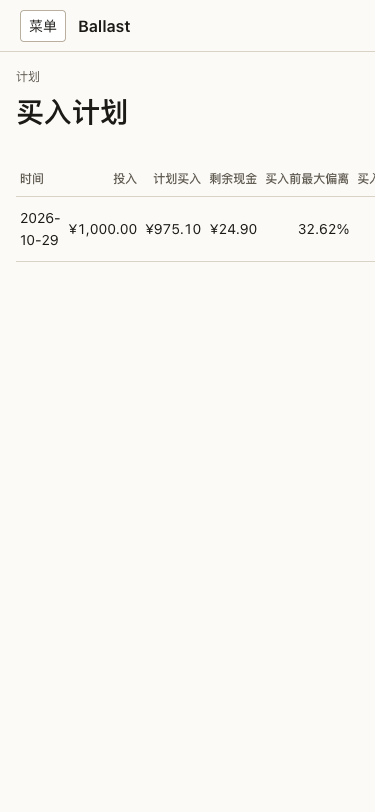
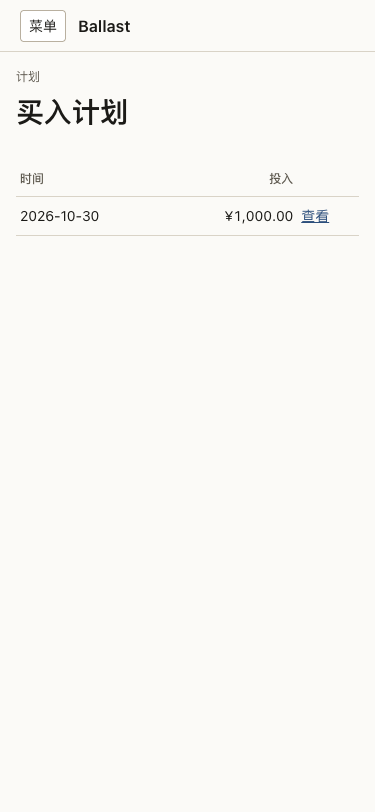
fix: 补齐算法微单位分配、移动端表格与计划过期提示
分类内预算改为先按市值取整、余数按 ticker 逐微补；窄屏隐藏次要列，截图脚本断言表格不超出视口；计划页显示过期横幅、可重新生成，并列出执行生成的交易；错误字段名映射为中文标签。

Changed region(s): [[0.0587, 0.2155, 1.0, 0.3079], [0.4107, 0.2155, 0.528, 0.2463], [0.2933, 0.2155, 0.352, 0.2463]]

diff --git a/web/src/pages/PlanDetail.jsx b/web/src/pages/PlanDetail.jsx
@@ -1,4 +1,4 @@
-import { useState } from 'react';
+import { useEffect, useState } from 'react';
 import { api } from '../api.js';
 import { Alert, Bar, Button, Dialog, Field, Input, Select, Spinner, Tag, useToast } from '../components.jsx';
 import { formatMoney, formatPercent, todayFrom } from '../format.js';
@@ -11,7 +11,15 @@ export default function PlanDetail({ id, state, plan, reloadPlan, refresh, navig
   const [abandonConfirm, setAbandonConfirm] = useState(false);
   const [busy, setBusy] = useState(false);
   const [error, setError] = useState('');
+  const [transactions, setTransactions] = useState(null);
+  const [regenBusy, setRegenBusy] = useState(false);
   const toast = useToast();
+  useEffect(() => {
+    if (plan?.status !== 'executed') return;
+    let alive = true;
+    api(`/api/transactions?planId=${id}&limit=200`).then((data) => { if (alive) setTransactions(data.items); }).catch(() => { if (alive) setTransactions([]); });
+    return () => { alive = false; };
+  }, [id, plan?.status]);
   if (!plan) return <Spinner />;
   const currency = state?.portfolio?.baseCurrency ?? 'CNY';
   const accountOptions = (state?.accounts ?? []).filter((a) => !a.archived).map((a) => ({ value: a.id, label: a.name }));
@@ -25,6 +33,13 @@ export default function PlanDetail({ id, state, plan, reloadPlan, refresh, navig
       toast('计划已执行，持仓已更新');
     } catch (err) { setError(err.message); }
     finally { setBusy(false); }
+  }
+  async function regenerate() {
+    setRegenBusy(true); setError('');
+    try {
+      const next = await api('/api/plans', { method: 'POST', body: { amountMicros: plan.amountMicros, minTradeMicros: plan.minTradeMicros } });
+      navigate(`/plans/${next.id}`);
+    } catch (err) { setError(err.message); } finally { setRegenBusy(false); }
   }
   async function abandon() {
     setBusy(true);
@@ -50,6 +65,9 @@ export default function PlanDetail({ id, state, plan, reloadPlan, refresh, navig
         <div><p className="caption">执行后最大偏离</p><p className="metric">{formatPercent(plan.maxDriftAfterBp)}</p></div>
       </section>
 
+      {plan.status === 'draft' && plan.stale && (
+        <Alert tone="danger">价格、持仓或目标在生成后发生了变化，这份计划已经过期。重新生成后再执行。<button className="link" onClick={regenerate} disabled={regenBusy}>{regenBusy ? '生成中…' : '重新生成'}</button></Alert>
+      )}
       {plan.warnings.map((w) => <Alert key={w.code}>{w.message}</Alert>)}
       {error && <Alert tone="danger">{error}</Alert>}
 
@@ -100,7 +118,23 @@ export default function PlanDetail({ id, state, plan, reloadPlan, refresh, navig
           <p className="caption">执行会生成 {plan.items.length} 条买入记录，不能撤销。</p>
         </section>
       )}
-      {plan.status === 'executed' && <Alert tone="success">执行于 {plan.executedAt?.slice(0, 16).replace('T', ' ')}（UTC）{plan.accountId ? `，账户「${state.accounts.find((a) => a.id === plan.accountId)?.name ?? '已删除账户'}」` : ''}。交易记录可在持仓页查看。</Alert>}
+      {plan.status === 'executed' && (
+        <section className="section">
+          <h2 className="section__title">生成的交易</h2>
+          <p className="caption">执行于 {plan.executedAt?.slice(0, 16).replace('T', ' ')}（UTC）{plan.accountId ? `，账户「${state.accounts.find((a) => a.id === plan.accountId)?.name ?? '已删除账户'}」` : ''}。</p>
+          {transactions === null ? <Spinner /> : transactions.length === 0 ? <p className="muted">没有找到关联交易。</p> : (
+            <table className="table">
+              <caption className="sr-only">计划生成的交易</caption>
+              <thead><tr><th>代码</th><th>名称</th><th className="num">份额</th><th className="num">价格</th><th className="num">金额</th></tr></thead>
+              <tbody>
+                {transactions.map((t) => (
+                  <tr key={t.id}><td className="mono">{t.ticker}</td><td>{t.symbolName}</td><td className="num">{t.quantityMicros / 1e6}</td><td className="num">{formatMoney(t.priceMicros, currency)}</td><td className="num">{formatMoney(Math.round((t.quantityMicros * t.priceMicros) / 1e6), currency)}</td></tr>
+                ))}
+              </tbody>
+            </table>
+          )}
+        </section>
+      )}
       {plan.status === 'abandoned' && <Alert>放弃于 {plan.abandonedAt?.slice(0, 16).replace('T', ' ')}（UTC）。</Alert>}
 
       {confirm && (

diff --git a/web/src/pages/Holdings.jsx b/web/src/pages/Holdings.jsx
@@ -72,15 +72,15 @@ export default function Holdings({ state, refresh, navigate }) {
         {state.symbols.length === 0 ? <Empty title="还没有代码。" action={<Button variant="primary" onClick={openCode}>新增代码</Button>}>先添加你要买的 ETF 或股票。</Empty> : (
           <table className="table">
             <caption className="sr-only">代码与价格</caption>
-            <thead><tr><th>代码</th><th>名称</th><th>分类</th><th className="num">每手份数</th><th className="num">现价</th><th>价格日期</th><th>状态</th><th /></tr></thead>
+            <thead><tr><th>代码</th><th className="is-secondary">名称</th><th className="is-secondary">分类</th><th className="num is-secondary">每手份数</th><th className="num">现价</th><th className="is-secondary">价格日期</th><th className="is-secondary">状态</th><th /></tr></thead>
             <tbody>
               {state.symbols.map((symbol) => (
                 <tr key={symbol.id} className={symbol.archived ? 'is-muted' : ''}>
-                  <td className="mono">{symbol.ticker}</td><td>{symbol.name}</td><td>{symbol.sleeveName}</td>
-                  <td className="num">{symbol.lotSizeMicros / 1e6}</td>
+                  <td className="mono">{symbol.ticker}</td><td className="is-secondary">{symbol.name}</td><td className="is-secondary">{symbol.sleeveName}</td>
+                  <td className="num is-secondary">{symbol.lotSizeMicros / 1e6}</td>
                   <td className="num">{symbol.priceMicros ? formatPrice(symbol.priceMicros) : '—'}</td>
-                  <td>{symbol.priceAsOf ?? '—'}</td>
-                  <td><Tag tone={symbol.archived ? 'danger' : 'default'}>{symbol.archived ? '已归档' : '在用'}</Tag></td>
+                  <td className="is-secondary">{symbol.priceAsOf ?? '—'}</td>
+                  <td className="is-secondary"><Tag tone={symbol.archived ? 'danger' : 'default'}>{symbol.archived ? '已归档' : '在用'}</Tag></td>
                   <td className="row-actions">
                     <Button size="small" onClick={() => openPrice(symbol)}>改价格</Button>
                     <Button size="small" variant="ghost" onClick={() => run(async () => api(`/api/symbols/${symbol.id}`, { method: 'PATCH', body: { archived: !symbol.archived } }))}>{symbol.archived ? '恢复' : '归档'}</Button>
@@ -97,11 +97,11 @@ export default function Holdings({ state, refresh, navigate }) {
         {state.positions.length === 0 ? <Empty title="还没有持仓。" action={<Button variant="primary" onClick={() => (activeSymbols.length ? openTrade() : openCode())}>{activeSymbols.length ? '新增买入' : '新增代码'}</Button>}>新增一笔买入后，这里会按账户显示。</Empty> : (
           <table className="table">
             <caption className="sr-only">持仓</caption>
-            <thead><tr><th>账户</th><th>代码</th><th>名称</th><th>分类</th><th className="num">份额</th><th className="num is-secondary">平均成本</th><th className="num">现价</th><th className="is-secondary">价格日期</th><th className="num">市值</th><th className="num is-secondary">未实现盈亏</th></tr></thead>
+            <thead><tr><th className="is-secondary">账户</th><th>代码</th><th className="is-secondary">名称</th><th className="is-secondary">分类</th><th className="num">份额</th><th className="num is-secondary">平均成本</th><th className="num">现价</th><th className="is-secondary">价格日期</th><th className="num">市值</th><th className="num is-secondary">未实现盈亏</th></tr></thead>
             <tbody>
               {state.positions.map((p) => (
                 <tr key={`${p.accountId}-${p.symbolId}`}>
-                  <td>{p.accountName}</td><td className="mono">{p.ticker}</td><td>{p.name}</td><td>{p.sleeveName}</td>
+                  <td className="is-secondary">{p.accountName}</td><td className="mono">{p.ticker}</td><td className="is-secondary">{p.name}</td><td className="is-secondary">{p.sleeveName}</td>
                   <td className="num">{p.quantityMicros / 1e6}</td><td className="num is-secondary">{formatPrice(p.avgCostMicros)}</td>
                   <td className="num">{formatPrice(p.priceMicros)}</td><td className="is-secondary">{p.priceAsOf ?? '—'}</td>
                   <td className="num">{formatMoney(p.marketValueMicros, currency)}</td><td className="num is-secondary">{formatMoney(p.unrealizedMicros, currency)}</td>

diff --git a/web/src/pages/Plans.jsx b/web/src/pages/Plans.jsx
@@ -16,17 +16,17 @@ export default function Plans({ state, navigate }) {
       {data.items.length === 0 ? <Empty title="还没有计划。">到总览页输入投入金额，生成第一份计划。</Empty> : (
         <table className="table">
           <caption className="sr-only">计划历史</caption>
-          <thead><tr><th>时间</th><th className="num">投入</th><th className="num">计划买入</th><th className="num">剩余现金</th><th className="num">买入前最大偏离</th><th className="num">买入后最大偏离</th><th>状态</th><th /></tr></thead>
+          <thead><tr><th>时间</th><th className="num">投入</th><th className="num is-secondary">计划买入</th><th className="num is-secondary">剩余现金</th><th className="num is-secondary">买入前最大偏离</th><th className="num is-secondary">买入后最大偏离</th><th className="is-secondary">状态</th><th /></tr></thead>
           <tbody>
             {data.items.map((p) => (
               <tr key={p.id}>
                 <td>{p.createdAt.slice(0, 10)}</td>
                 <td className="num">{formatMoney(p.amountMicros, currency)}</td>
-                <td className="num">{formatMoney(p.plannedMicros, currency)}</td>
-                <td className="num">{formatMoney(p.cashLeftMicros, currency)}</td>
-                <td className="num">{formatPercent(p.maxDriftBeforeBp)}</td>
-                <td className="num">{formatPercent(p.maxDriftAfterBp)}</td>
-                <td><Tag tone={p.status === 'executed' ? 'ok' : p.status === 'abandoned' ? 'danger' : 'warn'}>{p.status === 'executed' ? '已执行' : p.status === 'abandoned' ? '已放弃' : '草稿'}</Tag></td>
+                <td className="num is-secondary">{formatMoney(p.plannedMicros, currency)}</td>
+                <td className="num is-secondary">{formatMoney(p.cashLeftMicros, currency)}</td>
+                <td className="num is-secondary">{formatPercent(p.maxDriftBeforeBp)}</td>
+                <td className="num is-secondary">{formatPercent(p.maxDriftAfterBp)}</td>
+                <td className="is-secondary"><Tag tone={p.status === 'executed' ? 'ok' : p.status === 'abandoned' ? 'danger' : 'warn'}>{p.status === 'executed' ? '已执行' : p.status === 'abandoned' ? '已放弃' : '草稿'}</Tag></td>
                 <td><button className="link" onClick={() => navigate(`/plans/${p.id}`)}>查看</button></td>
               </tr>
             ))}

diff --git a/server/src/domain/plan.js b/server/src/domain/plan.js
@@ -67,6 +67,24 @@ function symbolKey(s) {
   return `${s.ticker}\u0000${s.id}`;
 }
 
+function splitByValueExact(budget, eligible, valueById, sleeveValue) {
+  const n = BigInt(eligible.length);
+  if (sleeveValue <= 0n) {
+    const base = budget / n;
+    const remainder = budget - base * n;
+    return eligible.map((symbol, index) => base + (BigInt(index) < remainder ? 1n : 0n));
+  }
+  const raw = eligible.map((symbol) => (budget * (valueById.get(symbol.id) ?? 0n)) / sleeveValue);
+  let assigned = raw.reduce((a, b) => a + b, 0n);
+  let remainder = budget - assigned;
+  const out = [...raw];
+  for (let i = 0; i < out.length && remainder > 0n; i += 1) {
+    out[i] += 1n;
+    remainder -= 1n;
+  }
+  return out;
+}
+
 export function buildPlan({ positions, symbols, sleeves, amountMicros, minTradeMicros = 0, nowMs = Date.now() }) {
   if (!Number.isInteger(amountMicros) || amountMicros < 1 || amountMicros > 1_000_000_000_000) {
     throw new PlanError(400, 'invalid_input', '投入金额必须在 0.000001–1,000,000 之间');
@@ -149,11 +167,7 @@ export function buildPlan({ positions, symbols, sleeves, amountMicros, minTradeM
       .filter((s) => s.sleeveId === sleeve.id && s.priceMicros > 0)
       .sort((a, b) => symbolKey(a).localeCompare(symbolKey(b), 'zh-CN'));
     if (eligible.length === 0) continue;
-    const weights = eligible.map((s) => {
-      if (sleeveValue > 0n) return safeNumber((budget * (valueById.get(s.id) ?? 0n)) / sleeveValue);
-      return 1;
-    });
-    const symbolBudgets = splitBudget(safeNumber(budget), weights).map(BigInt);
+    const symbolBudgets = splitByValueExact(budget, eligible, valueById, sleeveValue);
     for (let j = 0; j < eligible.length; j += 1) {
       const symbol = eligible[j];
       const unit = (BigInt(symbol.lotSizeMicros) * BigInt(symbol.priceMicros)) / 1_000_000n;

diff --git a/web/src/pages/Overview.jsx b/web/src/pages/Overview.jsx
@@ -93,13 +93,13 @@ export default function Overview({ state, refresh, navigate }) {
         {!state.lastPlan ? <Empty title="还没有计划。">输入投入金额，生成第一份买入计划。</Empty> : (
           <table className="table">
             <caption className="sr-only">最近计划</caption>
-            <thead><tr><th>时间</th><th>投入</th><th>计划买入</th><th>剩余现金</th><th>状态</th><th /></tr></thead>
+            <thead><tr><th>时间</th><th>投入</th><th className="is-secondary">计划买入</th><th className="is-secondary">剩余现金</th><th>状态</th><th /></tr></thead>
             <tbody>
               <tr>
                 <td>{state.lastPlan.createdAt.slice(0, 10)}</td>
                 <td className="num">{formatMoney(state.lastPlan.amountMicros, currency)}</td>
-                <td className="num">{formatMoney(state.lastPlan.plannedMicros, currency)}</td>
-                <td className="num">{formatMoney(state.lastPlan.cashLeftMicros, currency)}</td>
+                <td className="num is-secondary">{formatMoney(state.lastPlan.plannedMicros, currency)}</td>
+                <td className="num is-secondary">{formatMoney(state.lastPlan.cashLeftMicros, currency)}</td>
                 <td><Tag tone={state.lastPlan.status === 'executed' ? 'ok' : state.lastPlan.status === 'abandoned' ? 'danger' : 'warn'}>{state.lastPlan.status === 'executed' ? '已执行' : state.lastPlan.status === 'abandoned' ? '已放弃' : '草稿'}</Tag></td>
                 <td><Button size="small" onClick={() => navigate(`/plans/${state.lastPlan.id}`)}>查看</Button></td>
               </tr>

diff --git a/server/test/plan.test.js b/server/test/plan.test.js
@@ -66,3 +66,15 @@ test('直接 hash 输入的规范化顺序无关', () => {
   const h2 = hashPlanInputs({ amountMicros: 1, minTradeMicros: 0, positions: new Map([['a', 1], ['b', 2]]), symbols: [...symbols].reverse(), sleeves: [...sleeves].reverse() });
   assert.equal(h1, h2);
 });
+
+test('分类内按市值比例先取整，余数按 ticker 升序逐微补', () => {
+  const sleeves = [{ id: 's', name: '单一', targetBp: 10000, bandBp: 500, sortOrder: 0 }];
+  const symbols = [
+    { id: 'b', ticker: 'BBB', name: 'B', sleeveId: 's', priceMicros: 1, priceAsOf: '2026-10-28', lotSizeMicros: 1000000, archived: false },
+    { id: 'a', ticker: 'AAA', name: 'A', sleeveId: 's', priceMicros: 1, priceAsOf: '2026-10-28', lotSizeMicros: 1000000, archived: false },
+  ];
+  const positions = [{ symbolId: 'a', quantityMicros: 1000000 }, { symbolId: 'b', quantityMicros: 3000000 }];
+  const plan = buildPlan({ positions, symbols, sleeves, amountMicros: 10, minTradeMicros: 0, nowMs: Date.parse('2026-10-29T12:00:00Z') });
+  const byTicker = Object.fromEntries(plan.items.map((i) => [i.ticker, i.amountMicros]));
+  assert.deepEqual(byTicker, { AAA: 3, BBB: 7 });
+});

diff --git a/web/src/api.js b/web/src/api.js
@@ -1,6 +1,38 @@
+const FIELD_LABELS = {
+  amountMicros: '投入金额',
+  minTradeMicros: '最小单笔金额',
+  quantityMicros: '份额',
+  priceMicros: '价格',
+  feeMicros: '费用',
+  lotSizeMicros: '每手份数',
+  targetBp: '目标比例',
+  bandBp: '偏离带',
+  tradedAt: '成交日期',
+  priceAsOf: '价格日期',
+  accountId: '账户',
+  symbolId: '代码',
+  sleeveId: '分类',
+  portfolioName: '组合名称',
+  baseCurrency: '基础币种',
+  ticker: '代码',
+  name: '名称',
+  note: '备注',
+  csv: 'CSV',
+  filename: '文件名',
+  side: '方向',
+};
+
+export function friendlyMessage(message) {
+  let text = String(message ?? '');
+  for (const [field, label] of Object.entries(FIELD_LABELS)) {
+    text = text.replace(new RegExp(`\\b${field}\\b`, 'g'), label);
+  }
+  return text;
+}
+
 export class ApiError extends Error {
   constructor(status, payload) {
-    super(payload?.error ?? '请求失败');
+    super(friendlyMessage(payload?.error ?? '请求失败'));
     this.status = status;
     this.code = payload?.code ?? 'unknown';
     this.details = payload?.details ?? [];

diff --git a/server/src/app.js b/server/src/app.js
@@ -435,7 +435,7 @@ export function createApp({ config, now = Date.now, staticDir = null, dbHandle =
   app.get('/api/transactions', asyncRoute((req, res) => {
     ensureSetup(db);
     const { limit, offset } = pagination(req.query, 50, 200);
-    const all = getTransactions(db, { accountId: req.query.accountId || null, symbolId: req.query.symbolId || null });
+    const all = getTransactions(db, { accountId: req.query.accountId || null, symbolId: req.query.symbolId || null, planId: req.query.planId || null });
     res.json({ total: all.length, items: all.slice(offset, offset + limit).map(transactionDto) });
   }));
 
@@ -640,6 +640,10 @@ export function createApp({ config, now = Date.now, staticDir = null, dbHandle =
     ensureSetup(db);
     const plan = planFull(db, req.params.id);
     if (!plan) throw new ApiError(404, 'not_found', '计划不存在');
+    if (plan.status === 'draft') {
+      const row = db.prepare('SELECT * FROM plan WHERE id = ?').get(plan.id);
+      plan.stale = currentHash(db, row) !== row.inputs_hash;
+    }
     res.json(plan);
   }));
 

diff --git a/server/test/api.test.js b/server/test/api.test.js
@@ -56,9 +56,13 @@ test('计划生成、执行、幂等与过期', async () => {
     assert.equal(again.status, 409);
     assert.equal(again.json.code, 'plan_not_draft');
     const plan2 = await ctx.request('/api/plans', { method: 'POST', body: { amountMicros: 1000000000 } });
+    const before = await ctx.request(`/api/plans/${plan2.json.id}`);
+    assert.equal(before.json.stale, false);
     await ctx.request('/api/prices', { method: 'PUT', body: { prices: [{ symbolId: symbols['510300'].id, priceMicros: 4100000, priceAsOf: '2026-10-29' }] } });
     const stale = await ctx.request(`/api/plans/${plan2.json.id}/execute`, { method: 'POST', body: { accountId: account.id, tradedAt: '2026-10-29' } });
     assert.equal(stale.status, 409);
     assert.equal(stale.json.code, 'plan_stale');
+    const detail = await ctx.request(`/api/plans/${plan2.json.id}`);
+    assert.equal(detail.json.stale, true);
   } finally { await ctx.close(); }
 });

diff --git a/web/src/pages/Targets.jsx b/web/src/pages/Targets.jsx
@@ -56,7 +56,7 @@ export default function Targets({ state, refresh }) {
       {!valid && <Alert>目标合计必须正好 100.00%，当前是 {sum.toFixed(2)}%。改到 100% 才能保存。</Alert>}
       {error && <Alert tone="danger">{error}</Alert>}
       {state.sleeves.length === 0 ? <Empty title="还没有分类。" action={<Button onClick={add}>新增分类</Button>} /> : (
-        <table className="table">
+        <table className="table table--fixed">
           <caption className="sr-only">分类目标</caption>
           <thead><tr><th>分类名</th><th className="num">目标 %</th><th className="num">偏离带 %</th><th className="num is-secondary">当前市值</th><th className="num is-secondary">当前比例</th><th /></tr></thead>
           <tbody>

diff --git a/web/src/styles/pages.css b/web/src/styles/pages.css
@@ -17,6 +17,9 @@
 .metric { font-size: var(--fs-20); line-height: var(--lh-20); font-weight: 600; margin-top: var(--space-1); }
 
 .table { width: 100%; border-collapse: collapse; margin-top: var(--space-2); }
+.table--fixed { table-layout: fixed; }
+.table--fixed th, .table--fixed td { overflow: hidden; }
+.table--fixed .input--compact { width: 100%; min-width: 0; }
 .table th { text-align: left; font-size: var(--fs-12); line-height: var(--lh-12); font-weight: 500; color: var(--text-muted); padding: var(--space-2) var(--space-2); border-bottom: 1px solid var(--border); white-space: nowrap; }
 .table td { padding: var(--space-3) var(--space-2); border-bottom: 1px solid var(--border); vertical-align: middle; }
 .table tbody tr:hover { background: var(--bg-subtle); }

diff --git a/server/src/repo.js b/server/src/repo.js
@@ -19,7 +19,7 @@ export function getSymbols(db) {
     .all();
 }
 
-export function getTransactions(db, { accountId = null, symbolId = null } = {}) {
+export function getTransactions(db, { accountId = null, symbolId = null, planId = null } = {}) {
   const where = [];
   const params = [];
   if (accountId) {
@@ -29,6 +29,10 @@ export function getTransactions(db, { accountId = null, symbolId = null } = {}) 
   if (symbolId) {
     where.push('t.symbol_id = ?');
     params.push(symbolId);
+  }
+  if (planId) {
+    where.push('t.plan_id = ?');
+    params.push(planId);
   }
   const sql = `SELECT t.*, a.name AS account_name, s.ticker, s.name AS symbol_name
     FROM "transaction" t JOIN account a ON a.id = t.account_id JOIN symbol s ON s.id = t.symbol_id
